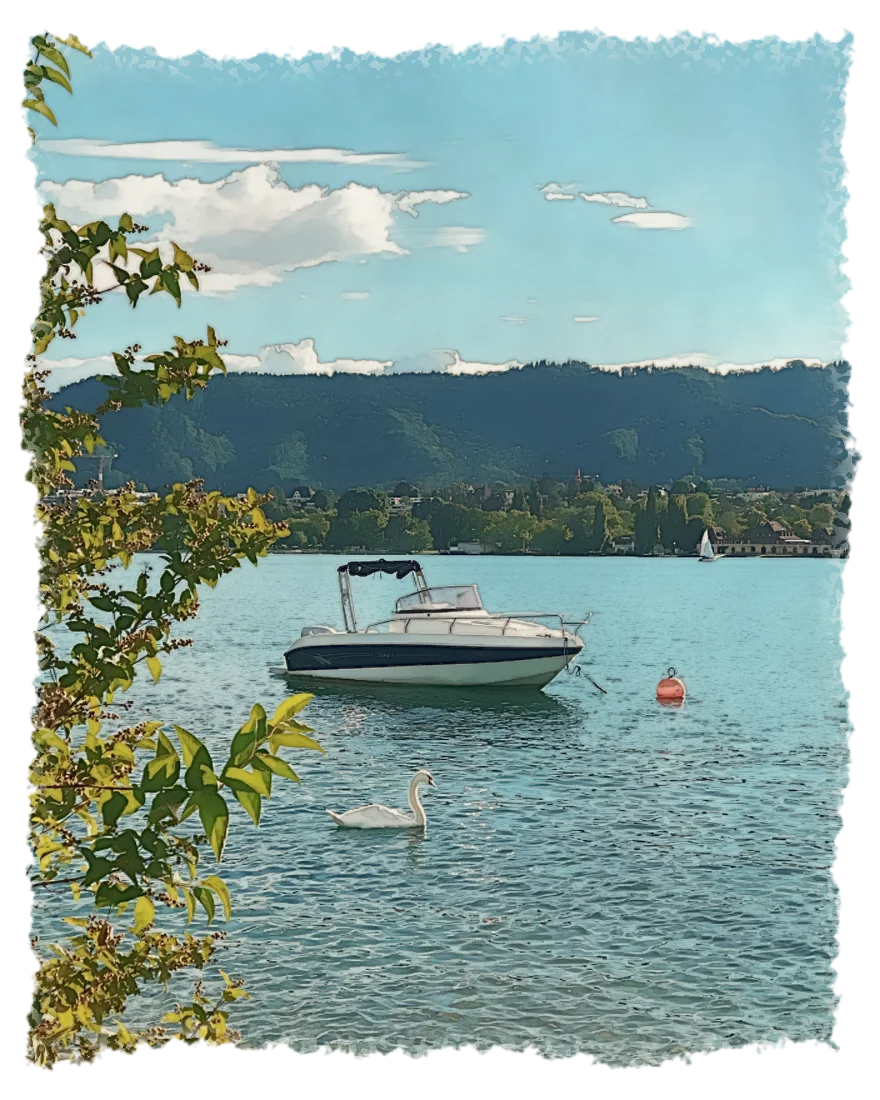
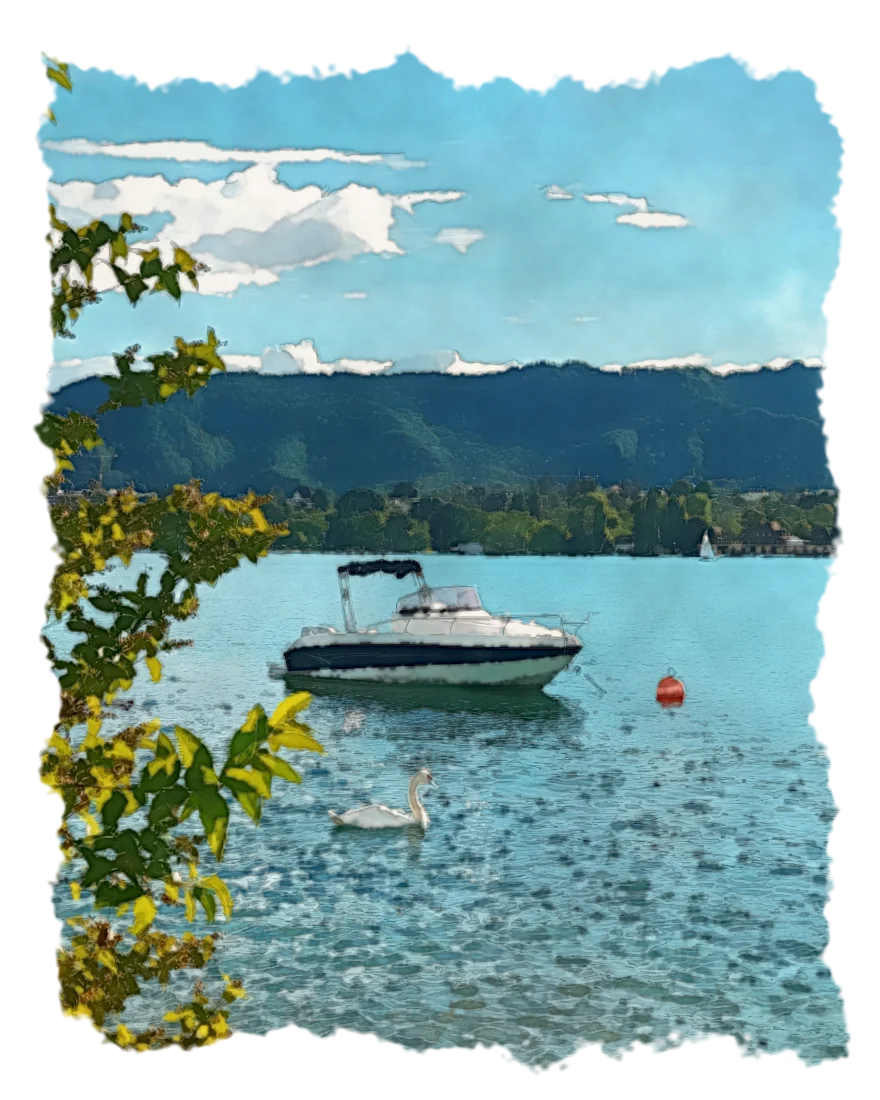
Repaint all four watercolours in a looser, Estelle-like style
Stronger washes, wet edges, blooms, granulation and a brushed border.

Claude-Session: https://claude.ai/code/session_01NGvW8y4aypVsC6WPXTU7ib

diff --git a/index.html b/index.html
@@ -108,7 +108,7 @@ img.wappen{filter:drop-shadow(0 1px 0 rgba(255,253,246,.85)) drop-shadow(0 -1px 
   <img class="wappen" id="wappen" src="img/maison-baer-wappen.webp" alt="Maison Baer" width="344" height="500">
   <h1>Maison Baer</h1>
 </section>
-  <img class="paint church" src="img/maison-baer-11-limmat-aerial.webp" alt="The Limmat, the Grossmünster and the lake from above, painted" width="880" height="1100" decoding="async">
+  <img class="paint church" src="img/maison-baer-11-limmat-aerial.webp?v=4" alt="The Limmat, the Grossmünster and the lake from above, painted" width="880" height="1100" decoding="async">
 
 <section class="prose">
   <h1 class="lede">The Club</h1>
@@ -117,7 +117,7 @@ img.wappen{filter:drop-shadow(0 1px 0 rgba(255,253,246,.85)) drop-shadow(0 -1px 
   <p>Membership is offered <em>on request</em>, through those already at the table.</p>
   <p class="sig" aria-label="Maison Baer">Maison Baer</p>
 </section>
-  <img class="paint boat" src="img/maison-baer-12-lake-swan.webp" alt="A boat and a swan on Lake Zurich, painted" width="880" height="1100" loading="lazy" decoding="async">
+  <img class="paint boat" src="img/maison-baer-12-lake-swan.webp?v=4" alt="A boat and a swan on Lake Zurich, painted" width="880" height="1100" loading="lazy" decoding="async">
 </main>
 
 <footer><span>Maison Baer · Zürich · MMXXVI</span><a href="legal.html">Legal Notice</a></footer>

diff --git a/history.html b/history.html
@@ -104,7 +104,7 @@ img.wappen{filter:drop-shadow(0 1px 0 rgba(255,253,246,.85)) drop-shadow(0 -1px 
     <p>What begins as an introduction becomes an acquaintance, and in time a friendship.</p>
   </div>
 </main>
-<img class="paint boat" src="img/maison-baer-5-innenhof.webp?v=3" alt="A courtyard with a fountain in Zürich, painted" width="880" height="1100" decoding="async">
+<img class="paint boat" src="img/maison-baer-5-innenhof.webp?v=4" alt="A courtyard with a fountain in Zürich, painted" width="880" height="1100" decoding="async">
 </div>
 
 <footer><span>Maison Baer · Zürich · MMXXVI</span><a href="legal.html">Legal Notice</a></footer>

diff --git a/membership.html b/membership.html
@@ -116,7 +116,7 @@ img.wappen{filter:drop-shadow(0 1px 0 rgba(255,253,246,.85)) drop-shadow(0 -1px 
     <span class="wm">Maison Baer</span>
   </div>
 </header>
-<img class="paint church" src="img/maison-baer-7-limmat.webp" alt="The Limmat with the Zunfthaus zur Meisen and St. Peter in Zürich, painted" width="880" height="1100" decoding="async">
+<img class="paint church" src="img/maison-baer-7-limmat.webp?v=4" alt="The Limmat with the Zunfthaus zur Meisen and St. Peter in Zürich, painted" width="880" height="1100" decoding="async">
 
 <main>
   <h1>Membership</h1>

diff --git a/tools/watercolour-painterly.py b/tools/watercolour-painterly.py
@@ -1,0 +1,60 @@
+import cv2, numpy as np
+from wc2 import noise
+PAPER=np.array([238,244,247],np.float32)
+def paint4(path,out,seed,crop,cx=0.5):
+    im=cv2.imread(path); h,w=im.shape[:2]
+    tw=w; th=int(w*5/4)
+    if th>h: th=h; tw=int(h*4/5)
+    y0=int((h-th)*crop); x0=int((w-tw)*cx)
+    im=im[y0:y0+th,x0:x0+tw]
+    W,H=880,1100
+    src=cv2.resize(im,(W,H),interpolation=cv2.INTER_AREA)
+    # 1. loose colour washes: strong simplification at low resolution
+    sm=cv2.resize(src,(528,660),interpolation=cv2.INTER_AREA)
+    ms=cv2.pyrMeanShiftFiltering(sm,sp=6,sr=22,maxLevel=1)
+    ms=cv2.xphoto.oilPainting(ms,2,1)
+    base=cv2.resize(ms,(W,H),interpolation=cv2.INTER_CUBIC)
+    base=cv2.GaussianBlur(base,(0,0),1.0)
+    f=base.astype(np.float32)
+    # 2. a little structure back, but painterly (not photographic)
+    g=cv2.cvtColor(src,cv2.COLOR_BGR2GRAY).astype(np.float32)
+    hp=g-cv2.GaussianBlur(g,(0,0),3.0)
+    f+=hp[...,None]*0.6
+    # 3. rich, saturated pigment with deeper shadows
+    hsv=cv2.cvtColor(np.clip(f,0,255).astype(np.uint8),cv2.COLOR_BGR2HSV).astype(np.float32)
+    hsv[...,1]=np.clip(hsv[...,1]*1.10,0,255)
+    v=hsv[...,2]/255.; v=np.clip(v*0.92+0.10,0,1)
+    hsv[...,2]=v*255
+    f=cv2.cvtColor(hsv.astype(np.uint8),cv2.COLOR_HSV2BGR).astype(np.float32)
+    f[...,2]*=1.03; f[...,0]*=0.96
+    # 4. wet-in-wet blooms and blotchy brush marks
+    b1=noise(H,W,90,seed)-.5; b2=noise(H,W,28,seed+1)-.5; b3=noise(H,W,9,seed+2)-.5
+    f*=(1+0.10*b1+0.08*b2+0.035*b3)[...,None]
+    # 5. wet edges: pigment collects where washes meet
+    gm=cv2.cvtColor(base,cv2.COLOR_BGR2GRAY).astype(np.float32)
+    grad=cv2.morphologyEx(gm,cv2.MORPH_GRADIENT,np.ones((3,3),np.uint8))
+    edge=np.clip(cv2.GaussianBlur(grad,(0,0),1.3)/30,0,1)
+    f*=(1-0.16*edge)[...,None]
+    # 6. granulation in the darker pigment
+    lum=cv2.cvtColor(np.clip(f,0,255).astype(np.uint8),cv2.COLOR_BGR2GRAY).astype(np.float32)/255.
+    gr=(np.random.default_rng(seed+3).random((H,W)).astype(np.float32)-.5)
+    gr=cv2.GaussianBlur(gr,(0,0),0.8)
+    f*=(1+gr*0.10*(1-lum))[...,None]
+    # 7. loose ink drawing
+    e=cv2.Canny(cv2.GaussianBlur(g.astype(np.uint8),(0,0),1.2),45,110).astype(np.float32)/255.
+    e=cv2.GaussianBlur(e,(0,0),0.6)*0.30*(noise(H,W,20,seed+4)>0.3)
+    ink=np.array([30,38,45],np.float32)
+    f=f*(1-e[...,None])+ink*e[...,None]
+    # 8. white paper left in the highlights
+    lum=cv2.cvtColor(np.clip(f,0,255).astype(np.uint8),cv2.COLOR_BGR2GRAY).astype(np.float32)/255.
+    hi=np.clip((lum-0.80)/0.10,0,1)[...,None]*0.75
+    f=f*(1-hi)+PAPER*hi
+    f=np.clip(f,0,255).astype(np.uint8)
+    # 9. painted, blotchy border (like a brushed watercolour sheet)
+    yy,xx=np.mgrid[0:H,0:W].astype(np.float32)
+    d=np.minimum(np.minimum(xx,W-1-xx)/W,np.minimum(yy,H-1-yy)/H)
+    rag=noise(H,W,140,seed+5)*0.05+noise(H,W,26,seed+6)*0.03+noise(H,W,6,seed+7)*0.012
+    a=np.clip((d-0.01-rag)/0.006,0,1)
+    a=cv2.GaussianBlur(a,(0,0),0.8)
+    rgba=cv2.cvtColor(f,cv2.COLOR_BGR2BGRA); rgba[...,3]=(a*255).astype(np.uint8)
+    cv2.imwrite(out,rgba)

diff --git a/README.md b/README.md
@@ -11,6 +11,7 @@ Live (GitHub Pages): https://hxbaer.github.io/maisonbaer/
 - `membership.html`: Membership (introduction by two guests, request button).
 - `legal.html`: Legal Notice in English.
 - `img/`: coat of arms and four watercolours: the Limmat and Grossmünster from above and a boat with a swan on Lake Zurich (home, from Unsplash photos by Henrique Ferreira and Domenico Loia), a courtyard with a fountain (History, own photo), the Limmat with St. Peter (Membership, from an Unsplash photo by Tomi Blasic). Unsplash photos are used under the Unsplash License.
+- `tools/watercolour-painterly.py`: the looser, more saturated watercolour filter (closer to Maison Estelle's illustrations) used for the current paintings.
 - `tools/watercolour.py`: the Python/OpenCV filter that turned the photos into the paintings.
 
 ## Notes
